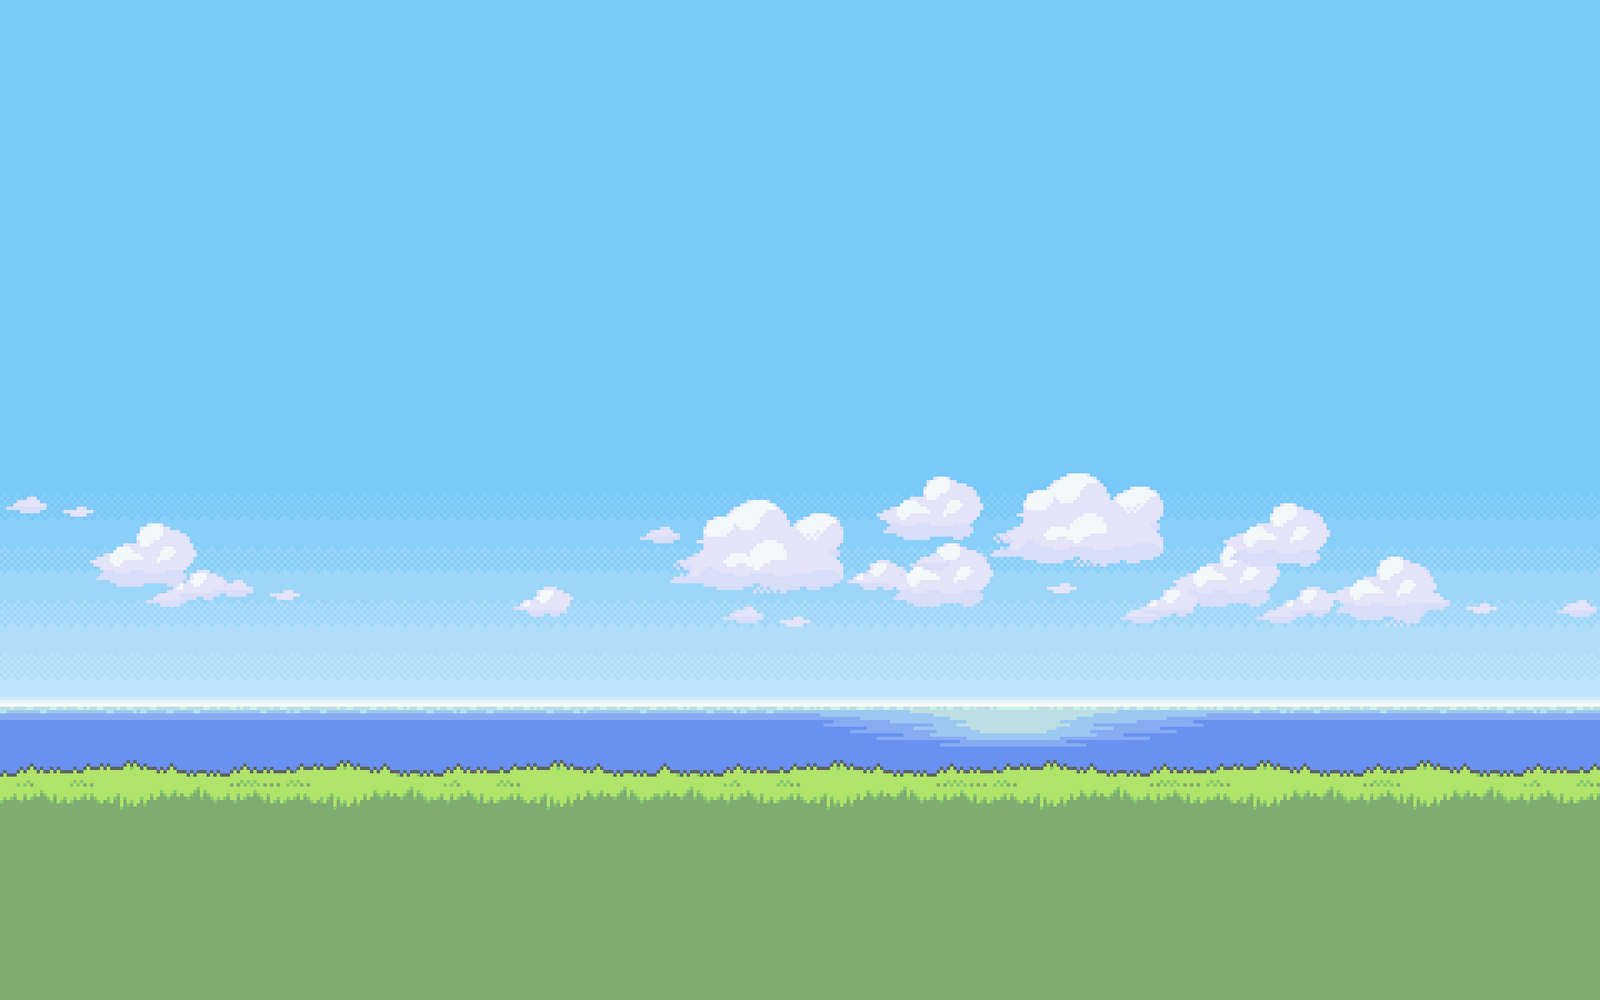
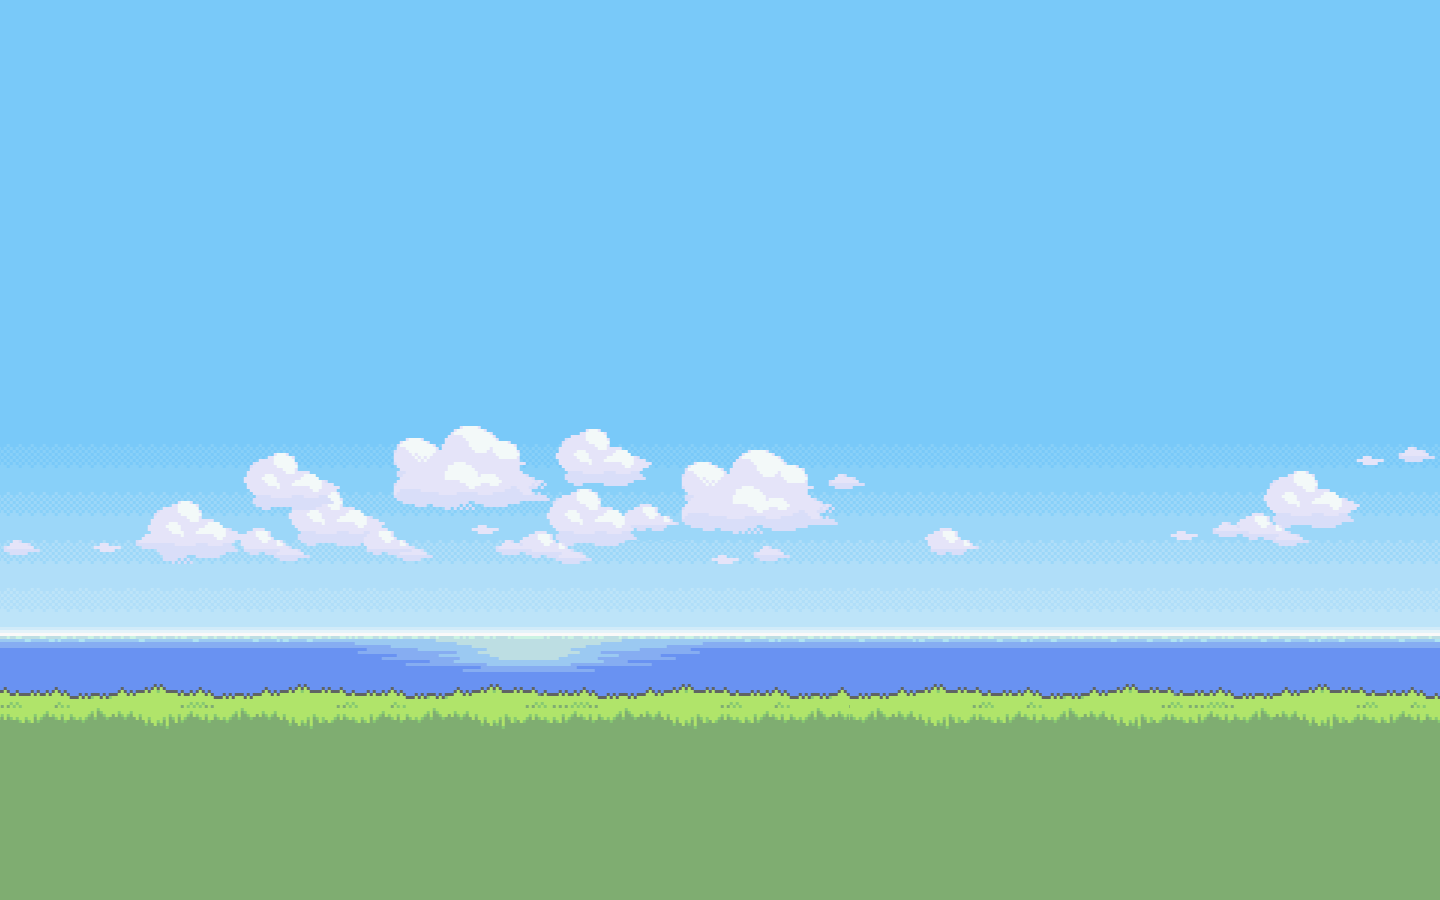
Separate background into two canvases to allow the grass and sky to move separately

diff --git a/src/View.java b/src/View.java
@@ -53,12 +53,15 @@ public class View {
     private Controller controller;
     private ArrayList<Canvas> gameCanvasses;
     private Canvas mainCanvas;
-    private Canvas backgroundCanvas;
-    private Canvas backgroundCanvas2;
+    private Canvas backgroundSkyCanvas;
+    private Canvas backgroundGrassCanvas;
     private Stage gameWindow;
 
-    private int backgroundCanvasX = 0;
-    private int backgroundCanvas2X = 800;
+
+    double backgroundSkyShift = -2;
+    double backgroundGrassShift = -8;
+    private double backgroundSkyCanvasX = 0;
+    private double backgroundGrassCanvasX = 0;
 
     // Instance variables for continual running.
     private AnimationTimer timer;
@@ -72,11 +75,9 @@ public class View {
     private SpriteAnimation playerAnimation;
     private ArrayList<Image[]> playerSprites;
 
-    /*
-    Instance variables that determine which series of images to use for the
-    Player object animation, based on index in numFrames. numFrames contains
-    number of images used for each different animation.
-    */
+    // Instance variables that determine which series of images to use for the
+    // Player object animation, based on index in numFrames. numFrames contains
+    // number of images used for each different animation.
     private static final int PLAYER_RUNNING = 0;
     private static final int PLAYER_JUMPING = 1;
     private static final int PLAYER_FALLING = 2;
@@ -86,6 +87,13 @@ public class View {
             3, // JUMPING
             3  // FALLING
     };
+
+    Image backgroundSkyImage = new Image(
+            "Resources/Background_Sky.png", 0, 800, true, false
+    );
+    Image backgroundGrassImage = new Image(
+            "Resources/Background_Grass.png", 0, 800, true, false
+    );
 
     /**
      * Stores references to the gameWindow Stage and model objects for the
@@ -139,31 +147,30 @@ public class View {
             loadGameOverScreen(score);
         }
 
-        /*
-        Initializes a GraphicsContext variable to allow the program to draw
-        the player object, Obstacle objects and background on the game window.
-        Clears the previous game screen in order to draw new game state with the
-        updated Player object, Obstacle objects and score.
-         */
+        // Initializes a GraphicsContext variable to allow the program to draw
+        // the player object, Obstacle objects and background on the game
+        // window. Clears the previous game screen in order to draw new game
+        // state with the updated Player object, Obstacle objects and score.
         GraphicsContext context = mainCanvas.getGraphicsContext2D();
         context.clearRect(0, 0, mainCanvas.getWidth(), mainCanvas.getHeight());
-        GraphicsContext context1 = backgroundCanvas.getGraphicsContext2D();
-        context1.clearRect(0, 0, backgroundCanvas.getWidth(), backgroundCanvas.getHeight());
-        GraphicsContext context2 = backgroundCanvas2.getGraphicsContext2D();
-        context2.clearRect(0, 0, backgroundCanvas2.getWidth(), backgroundCanvas.getHeight());
 
-        Image background = new Image(
-                "Resources/background.png",0,800,true,false
-        );
-        moveCanvas(8);
-        context1.drawImage(background, backgroundCanvasX, -200);
-        context2.drawImage(background, backgroundCanvas2X, -200);
+        backgroundSkyCanvasX += backgroundSkyShift;
+        updateBackgroundImage(backgroundSkyCanvas,
+                              backgroundSkyImage,
+                              backgroundSkyCanvasX);
 
-        if (backgroundCanvasX == -800) {
-            backgroundCanvasX = 800;
+        backgroundGrassCanvasX += backgroundGrassShift;
+        updateBackgroundImage(backgroundGrassCanvas,
+                              backgroundGrassImage,
+                              backgroundGrassCanvasX);
+
+        // Resets the position of each background image if they've travelled
+        // far enough across the screen.
+        if (backgroundSkyCanvasX <= -backgroundSkyImage.getWidth()) {
+            backgroundSkyCanvasX = 0;
         }
-        if (backgroundCanvas2X == -800) {
-            backgroundCanvas2X = 800;
+        if (backgroundGrassCanvasX <= -backgroundGrassImage.getWidth()) {
+            backgroundGrassCanvasX = 0;
         }
 
         GameObject player = model.getPlayer();
@@ -177,6 +184,22 @@ public class View {
 
         context.setFont(new Font("Comic Sans MS", (double) 24));
         context.fillText("SCORE   " + model.getScore() + "m", 40, 40);
+    }
+
+    /**
+     * Updates the position of a background image. Draws two copies of the
+     * image to allow for smooth scrolling across the screen.
+     * @param canvas the canvas the image is drawn on
+     * @param image the background image to be drawn
+     * @param x the x position of the image
+     */
+    public void updateBackgroundImage(Canvas canvas, Image image,
+                                       double x) {
+        GraphicsContext context = canvas.getGraphicsContext2D();
+        context.clearRect(0, 0, canvas.getWidth(), canvas.getHeight());
+
+        context.drawImage(image, x, -200);
+        context.drawImage(image, x + image.getWidth(), -200);
     }
 
     public void loadGameOverScreen(String score) {
@@ -256,14 +279,14 @@ public class View {
      * @return the playing game scene
      */
     public Scene loadGameScene() {
-        generateBackgroundCanvas();
-        generateBackgroundCanvas2();
+        generateBackgroundCanvases();
+//        generateBackgroundCanvases2();
 
         generateGameCanvas();
 
         gameCanvasses = new ArrayList<Canvas>();
-        gameCanvasses.add(backgroundCanvas);
-        gameCanvasses.add(backgroundCanvas2);
+        gameCanvasses.add(backgroundSkyCanvas);
+        gameCanvasses.add(backgroundGrassCanvas);
         gameCanvasses.add(mainCanvas);
 
         model.init();
@@ -271,16 +294,15 @@ public class View {
         genPlayerAnimation();
 
         // Initializes the game timer, which will allow the user to play the
+        // Initializes the game timer, which will allow the user to play the
         // game.
         timer = new AnimationTimer() {
             @Override
             public void handle(long now) {
                 long currentTime = System.nanoTime();
 
-                /*
-                Determines the frame rate, then draws the updated positions
-                based on user input, and re-updates the game state.
-                */
+                // Determines the frame rate, then draws the updated positions
+                // based on user input, and re-updates the game state.
                 if (currentTime - lastFrameDraw > 25000000L) {
                     lastFrameDraw = currentTime;
                     drawGame();
@@ -329,29 +351,30 @@ public class View {
      * Generates the canvas for the background of the game, along with any
      * images drawn onto it.
      */
-    public void generateBackgroundCanvas() {
-        backgroundCanvas = new Canvas(800,600);
-        GraphicsContext context = backgroundCanvas.getGraphicsContext2D();
+    public void generateBackgroundCanvases() {
+        backgroundGrassCanvas = new Canvas(800,600);
+        GraphicsContext backgroundSkyContext = backgroundGrassCanvas.getGraphicsContext2D();
 
-        Image background = new Image(
-                "Resources/background.png",0,800,true,false
-        );
-        context.drawImage(background,0,-200);
+        backgroundSkyCanvas = new Canvas(800,600);
+        GraphicsContext backgroundGrassContext = backgroundSkyCanvas.getGraphicsContext2D();
+
+        backgroundSkyContext.drawImage(backgroundSkyImage,0,-200);
+        backgroundGrassContext.drawImage(backgroundGrassImage,0,-200);
     }
 
-    /**
-     * Generates the canvas for the background of the game, along with any
-     * images drawn onto it.
-     */
-    public void generateBackgroundCanvas2() {
-        backgroundCanvas2 = new Canvas(800,600);
-        GraphicsContext context = backgroundCanvas2.getGraphicsContext2D();
-
-        Image background = new Image(
-                "Resources/background.png",0,800,true,false
-        );
-        context.drawImage(background, 800,-200);
-    }
+//    /**
+//     * Generates the canvas for the background of the game, along with any
+//     * images drawn onto it.
+//     */
+//    public void generateBackgroundCanvases2() {
+//        backgroundCanvas2 = new Canvas(800,600);
+//        GraphicsContext context = backgroundCanvas2.getGraphicsContext2D();
+//
+//        Image background = new Image(
+//                "Resources/background.png",0,800,true,false
+//        );
+//        context.drawImage(background, 800,-200);
+//    }
 
     /**
      * Generates the canvas used for game play, including the Player object
@@ -360,11 +383,6 @@ public class View {
     public void generateGameCanvas() {
         mainCanvas = new Canvas(800,600);
         //GraphicsContext context = mainCanvas.getGraphicsContext2D();
-    }
-
-    private void moveCanvas(int dx) {
-        backgroundCanvasX -= dx;
-        backgroundCanvas2X -= dx;
     }
 
     /**
